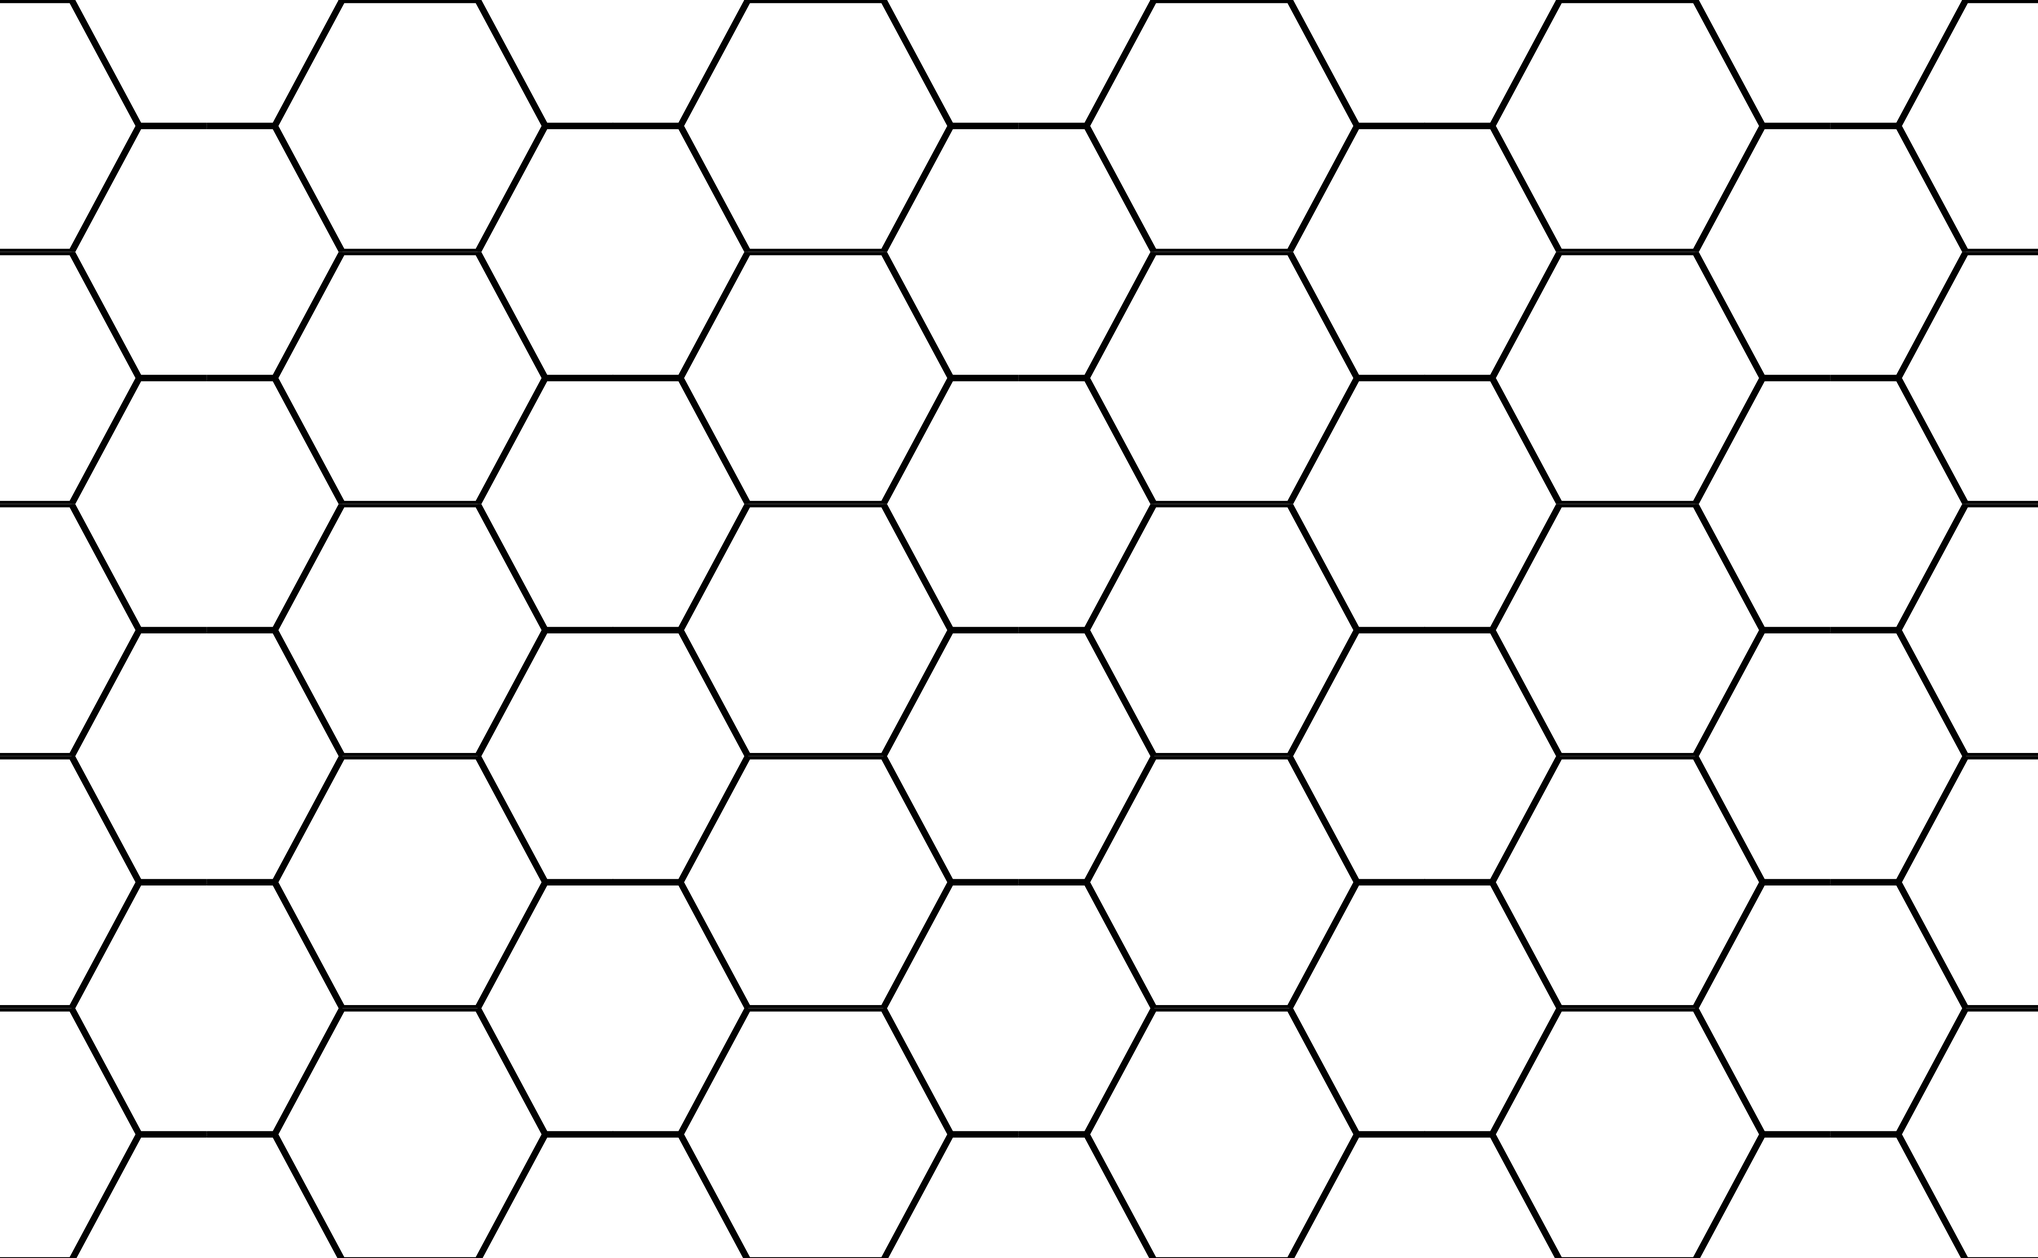
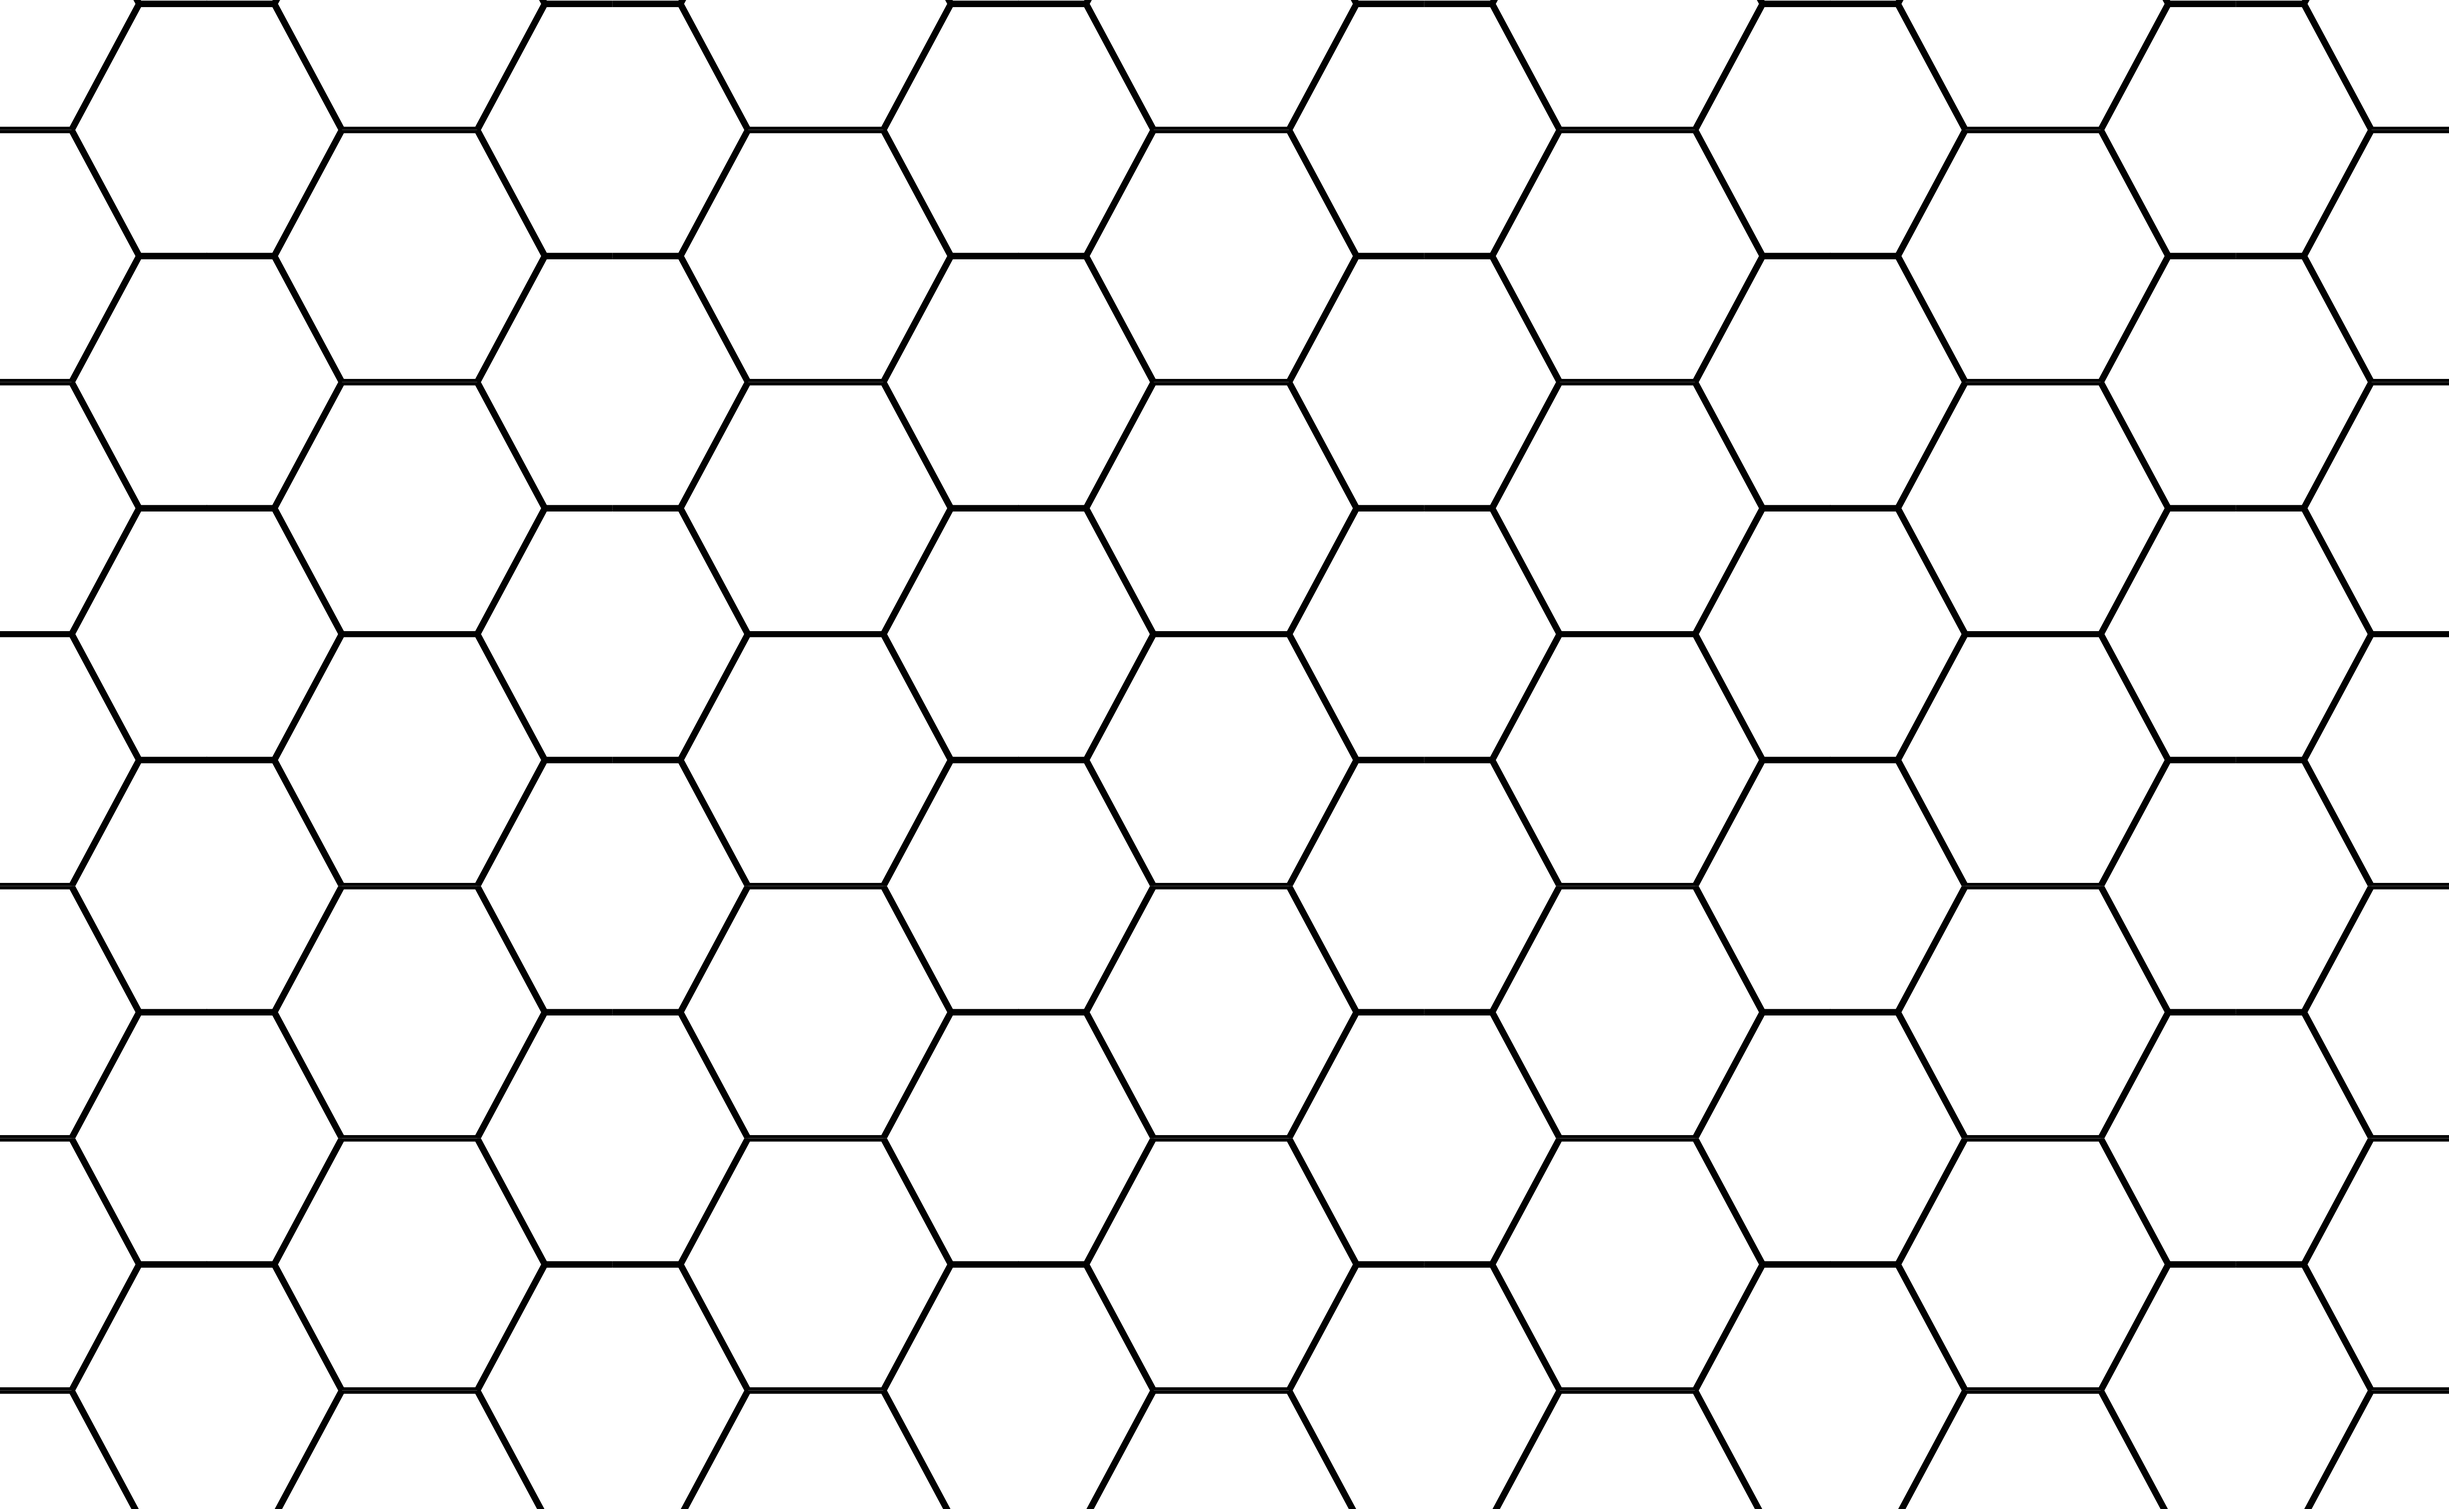
Fixed background transparency

diff --git a/hex.css b/hex.css
@@ -3,12 +3,13 @@ body {
   font-family: "Consolas";
   background-image: url(./images/HexTrimmed.png);
   background-size: 1000px;
+  background-position-y: -5px;
   animation: marquee 30s linear 0s infinite;
 }
 
 #main-menu {
   background-color: lightblue;
-  margin-top: 40%;
+  margin-top: 40vh;
   padding: 10px;
 }
 
@@ -33,9 +34,9 @@ body {
 }
 @keyframes marquee {
   0% {
-    background-position-y: 0;
+    background-position-x: 0;
   }
   100% {
-    background-position-y: 1000px;
+    background-position-x: 1000px;
   }
 }/*# sourceMappingURL=hex.css.map */

diff --git a/hex.scss b/hex.scss
@@ -3,11 +3,12 @@ body {
   font-family: "Consolas";
   background-image: url(./images/HexTrimmed.png);
   background-size: 1000px;
+  background-position-y: -5px;
   animation: marquee 30s linear 0s infinite;
 }
 #main-menu {
   background-color: lightblue;
-  margin-top: 40%;
+  margin-top: 40vh;
   padding: 10px;  
 }
 #title {
@@ -23,6 +24,6 @@ body {
   100% {opacity: 100%;}
 }
 @keyframes marquee {
-  0% {background-position-y: 0;}
-  100% {background-position-y: 1000px;}  
+  0% {background-position-x: 0;}
+  100% {background-position-x: 1000px;}  
 }
